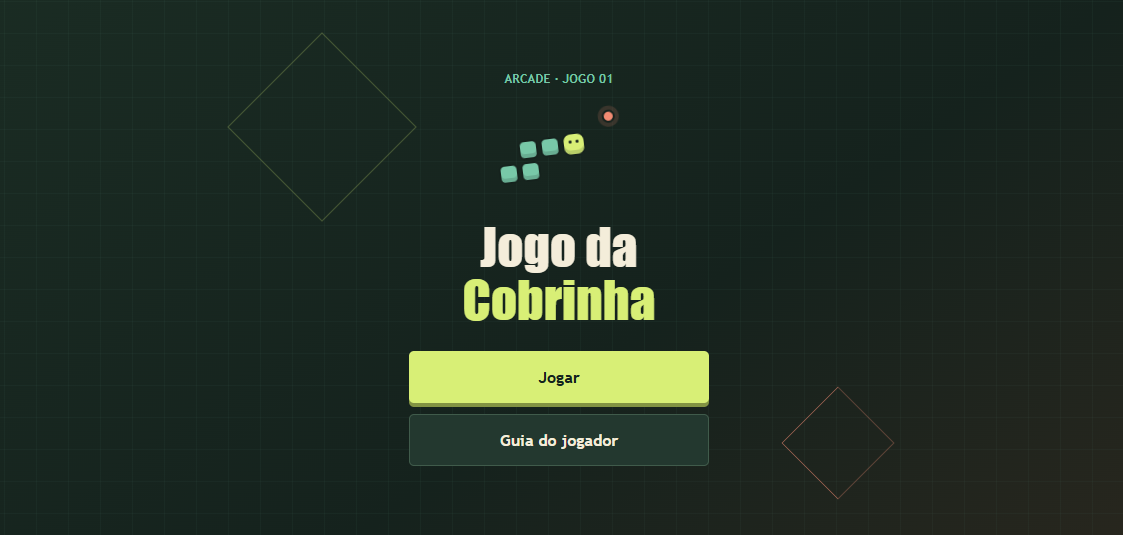
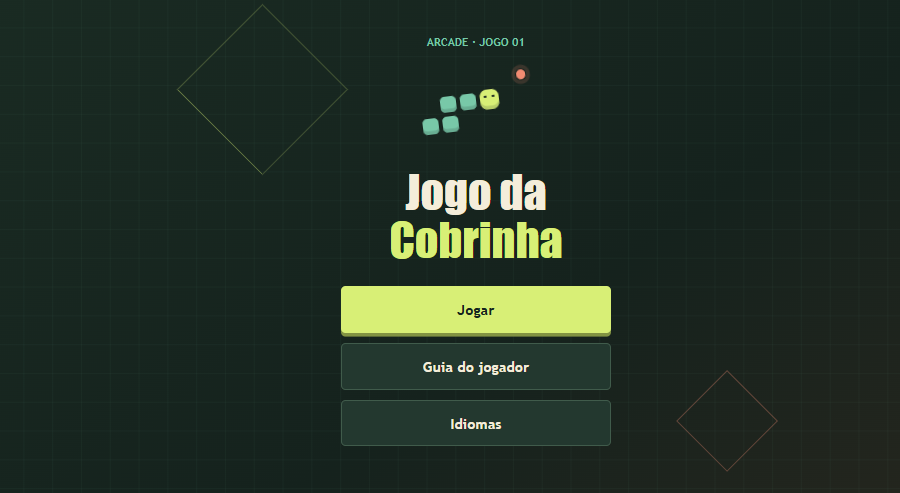
Add bilingual documentation and screenshots

diff --git a/js/game.js b/js/game.js
@@ -18,6 +18,13 @@ const languageButton = document.getElementById("language-button");
 const languageBackButton = document.getElementById("language-back-button");
 const backButton = document.getElementById("back-button");
 const gameBackButton = document.getElementById("game-back-button");
+const screens = {
+    menu: menuScreen,
+    language: languageScreen,
+    guide: howToScreen,
+    game: gameScreen
+};
+let currentScreen = "menu";
 const tileCount = canvas.width / GAME_CONFIG.gridSize;
 const level = createLevelSystem(tileCount);
 const render = createRenderer(canvas, GAME_CONFIG);
@@ -39,6 +46,45 @@ const state = {
 };
 
 highScoreElement.textContent = state.highScore;
+
+function showScreen(screenName) {
+    const nextScreen = screens[screenName];
+    if (!nextScreen) {
+        throw new RangeError(`Unknown screen: ${screenName}`);
+    }
+
+    if (currentScreen === "game" && screenName !== "game") {
+        clearInterval(state.gameInterval);
+        state.gameInterval = null;
+        state.gameStarted = false;
+        state.isMoving = false;
+        state.isPaused = false;
+        state.pauseStartedAt = null;
+    }
+
+    Object.entries(screens).forEach(([name, screen]) => {
+        screen.hidden = name !== screenName;
+    });
+    currentScreen = screenName;
+
+    if (screenName === "game" && !state.gameStarted) {
+        startGame();
+    }
+}
+
+function navigateTo(screenName) {
+    if (screenName === currentScreen) return;
+
+    history.pushState({ ...history.state, snakeScreen: screenName }, "");
+    showScreen(screenName);
+}
+
+window.addEventListener("popstate", event => {
+    const screenName = Object.hasOwn(screens, event.state?.snakeScreen)
+        ? event.state.snakeScreen
+        : "menu";
+    showScreen(screenName);
+});
 
 // ===== Inicio, velocidade e loop principal =====
 function createInitialSnakePart() {
@@ -240,28 +286,19 @@ window.addEventListener("keydown", event => {
 
 // ===== Navegacao entre menu, instrucoes e partida =====
 playButton.addEventListener("click", () => {
-    menuScreen.hidden = true;
-    languageScreen.hidden = true;
-    howToScreen.hidden = true;
-    gameScreen.hidden = false;
-    startGame();
+    navigateTo("game");
 });
 
 howToButton.addEventListener("click", () => {
-    menuScreen.hidden = true;
-    languageScreen.hidden = true;
-    howToScreen.hidden = false;
+    navigateTo("guide");
 });
 
 languageButton.addEventListener("click", () => {
-    menuScreen.hidden = true;
-    languageScreen.hidden = false;
+    navigateTo("language");
 });
 
 languageBackButton.addEventListener("click", () => {
-    languageScreen.hidden = true;
-    menuScreen.hidden = false;
-    languageButton.focus();
+    history.back();
 });
 
 document.querySelectorAll("[data-language]").forEach(button => {
@@ -272,23 +309,15 @@ document.querySelectorAll("[data-language]").forEach(button => {
 });
 
 backButton.addEventListener("click", () => {
-    howToScreen.hidden = true;
-    menuScreen.hidden = false;
-    playButton.focus();
+    history.back();
 });
 
 gameBackButton.addEventListener("click", () => {
-    clearInterval(state.gameInterval);
-    state.gameStarted = false;
-    state.isMoving = false;
-    state.isPaused = false;
-    state.pauseStartedAt = null;
-    gameScreen.hidden = true;
-    menuScreen.hidden = false;
-    playButton.focus();
+    history.back();
 });
 
 // ===== Preparacao da tela inicial =====
 level.reset(state.snake, state.nextDx, state.nextDy);
-gameScreen.hidden = true;
+history.replaceState({ ...history.state, snakeScreen: "menu" }, "");
+showScreen("menu");
 draw();

diff --git a/index.html b/index.html
@@ -44,11 +44,25 @@
             <h1 id="language-title" data-i18n="chooseLanguage">Escolha seu idioma</h1>
             <div class="language-options">
                 <button class="language-option" type="button" data-language="pt-BR" data-i18n-aria-label="portugueseAria">
-                    <span class="language-flag" aria-hidden="true">🇧🇷</span>
+                    <svg class="language-flag" viewBox="0 0 40 28" aria-hidden="true" focusable="false">
+                        <rect width="40" height="28" fill="#009b3a" />
+                        <path d="M20 3 36 14 20 25 4 14Z" fill="#ffdf00" />
+                        <circle cx="20" cy="14" r="6.5" fill="#002776" />
+                    </svg>
                     <span data-i18n="portugueseBrazil">Português - BR</span>
                 </button>
                 <button class="language-option" type="button" data-language="en-US" data-i18n-aria-label="englishAria">
-                    <span class="language-flag" aria-hidden="true">🇺🇸</span>
+                    <svg class="language-flag" viewBox="0 0 40 28" aria-hidden="true" focusable="false">
+                        <rect width="40" height="28" fill="#b22234" />
+                        <path d="M0 2h40v2H0zm0 4h40v2H0zm0 4h40v2H0zm0 4h40v2H0zm0 4h40v2H0zm0 4h40v2H0zm0 4h40v2H0z" fill="#fff" />
+                        <path d="M0 0h18v15H0z" fill="#3c3b6e" />
+                        <g fill="#fff">
+                            <circle cx="3" cy="3" r=".7" /><circle cx="8" cy="3" r=".7" /><circle cx="13" cy="3" r=".7" />
+                            <circle cx="5.5" cy="6" r=".7" /><circle cx="10.5" cy="6" r=".7" /><circle cx="15.5" cy="6" r=".7" />
+                            <circle cx="3" cy="9" r=".7" /><circle cx="8" cy="9" r=".7" /><circle cx="13" cy="9" r=".7" />
+                            <circle cx="5.5" cy="12" r=".7" /><circle cx="10.5" cy="12" r=".7" /><circle cx="15.5" cy="12" r=".7" />
+                        </g>
+                    </svg>
                     <span data-i18n="englishUs">English - US</span>
                 </button>
             </div>

diff --git a/css/menu.css b/css/menu.css
@@ -159,8 +159,11 @@
 }
 
 .language-flag {
-    font-size: 1.5rem;
-    line-height: 1;
+    width: 32px;
+    height: 22px;
+    flex: 0 0 auto;
+    border-radius: 2px;
+    box-shadow: 0 1px 3px rgba(0, 0, 0, 0.35);
 }
 
 /* ===== Botoes ===== */

diff --git a/README.md b/README.md
@@ -1,70 +1,66 @@
-# Jogo da Cobrinha
+# Snake Game
 
-Jogo de cobrinha para navegador, feito com HTML, CSS e JavaScript nativo. Inclui menu, instruções, pontuação, recorde local e fases com itens e obstáculos.
+A browser-based snake game built with vanilla HTML, CSS, and JavaScript. It features a menu, player guide, score tracking, a local high score, and levels with items and obstacles.
 
-O menu permite escolher entre Português (Brasil) e English (United States). A escolha é salva no navegador e traduz o menu, o guia e as mensagens do jogo.
+Choose between Portuguese (Brazil) and English (United States) from the menu. Your choice is saved in the browser and translates the menu, guide, and in-game messages.
 
-## Executar
+## Run the game
 
-Não é necessário instalar dependências nem usar Python. Como o jogo usa módulos JavaScript, execute-o por um servidor local, não diretamente como arquivo:
+No dependencies or Python are required. Since the game uses JavaScript modules, run it from a local web server rather than opening the file directly:
 
-1. Abra a pasta do projeto no VS Code.
-2. Instale a extensão **Live Server**.
-3. Abra o `index.html` e clique em **Go Live** na barra inferior, ou clique com o botão direito no arquivo e selecione **Open with Live Server**.
-4. O jogo será aberto no navegador.
+1. Open the project folder in VS Code.
+2. Install the **Live Server** extension.
+3. Open `index.html` and click **Go Live** in the status bar, or right-click the file and select **Open with Live Server**.
+4. The game will open in your browser.
 
-## Demonstração
+## Screenshots
 
-### Início
+### Main menu
 
-![Menu inicial do jogo](screenshots/menu-inicial.png)
+![Snake game main menu in English](screenshots/menu-inicial-english.png)
 
-### Instruções
+### Language selection
 
-![Controles do guia do jogador](screenshots/guia-do-jogador.png)
+![Language selection screen](screenshots/troca-de-idioma-english.png)
 
-![Fases e novidades do jogo](screenshots/fases-do-jogo.png)
+### Player guide
 
-### Jogo rodando
+![Player guide controls in English](screenshots/guia-ingles-controles.png)
 
-![Partida em andamento com portais e frutas](screenshots/partida-em-andamento.png)
+![Player guide phases and features in English](screenshots/guia-ingles-fases.png)
 
-### Fim de jogo
+### Gameplay
 
-![Tela de fim de jogo](screenshots/fim-de-jogo.png)
+![Snake game in progress](screenshots/partida-english.png)
 
-<!-- Opcional: adicione um vídeo e substitua o caminho abaixo.
-[Assistir ao vídeo da demonstração](screenshots/video.mp4)
--->
+## How to play
 
-## Como jogar
+- Select **Play** from the menu and use the arrow keys to move the snake.
+- Select **Languages** from the menu to switch between Portuguese - BR and English - US.
+- Use **← Back** to leave a game and return to the menu; in the guide, use **← Menu** to return.
+- Press **Space** to pause; choose a direction to continue.
+- Each fruit is worth 10 points and makes the snake grow. Up to three fruits appear on the board, each for 10 seconds.
+- The edges wrap around to the opposite sides of the board.
+- You lose if you collide with your own body, a bomb, or a moving wall.
+- Filling every cell on the board wins the game.
 
-- Selecione **Jogar** no menu e use as setas para mover a cobra.
-- Selecione **Idiomas** no menu para trocar entre Português - BR e English - US.
-- Use **← Voltar** para sair da partida e voltar ao menu; no guia, use **← Menu** para retornar.
-- Pressione **Espaço** para pausar; escolha uma direção para continuar.
-- Cada fruta vale 10 pontos e faz a cobra crescer. Há até três frutas no tabuleiro, cada uma por 10 segundos.
-- As bordas conectam os lados opostos do tabuleiro.
-- Você perde ao colidir com o próprio corpo, uma bomba ou uma parede móvel.
-- Preencher todas as casas do tabuleiro resulta em vitória.
+## Phases
 
-## Fases
-
-| Pontuação | Novidade |
+| Score | Feature |
 | --- | --- |
-| 0–99 | Três frutas disponíveis; cada uma desaparece após 10 segundos. |
-| 100–199 | Bombas aparecem por até 8 segundos. Após sumirem, podem surgir novamente. |
-| 200–299 | Dois portais transportam a cobra. Duram 15 segundos e reaparecem em outras posições após uma pausa. |
-| 300–399 | Poção roxa que reduz o comprimento da cobra em até cinco segmentos. |
-| 400–499 | Quatro paredes móveis no centro do tabuleiro; mudam de posição a cada 15 segundos. |
-| 500+ | Sobrevivência: a velocidade aumenta a cada 50 pontos, e as novidades anteriores continuam ativas. |
+| 0–99 | Three fruits are available; each disappears after 10 seconds. |
+| 100–199 | Bombs appear for up to 8 seconds and may spawn again after disappearing. |
+| 200–299 | Two portals transport the snake. They last 15 seconds and reappear in new positions after a short break. |
+| 300–399 | A purple potion shrinks the snake by up to five segments. |
+| 400–499 | Four moving walls appear in the center of the board and move every 15 seconds. |
+| 500+ | Survival: the snake speeds up every 50 points, and features from previous phases remain active. |
 
-## Estrutura
+## Project structure
 
 ```text
 .
 ├── index.html
-├── script.js              # Entrada dos módulos
+├── script.js              # JavaScript module entry point
 ├── css/
 │   ├── base.css
 │   ├── game.css
@@ -72,8 +68,10 @@ Não é necessário instalar dependências nem usar Python. Como o jogo usa mód
 │   ├── menu.css
 │   └── motion.css
 └── js/
-    ├── config.js          # Configurações do jogo
-    ├── game.js            # Partida e controles
-    ├── level-system.js    # Fases, itens e obstáculos
-    └── renderer.js        # Desenho no canvas
+    ├── config.js          # Game configuration
+    ├── game.js            # Gameplay and controls
+    ├── level-system.js    # Phases, items, and obstacles
+    └── renderer.js        # Canvas rendering
 ```
+
+Português: [README.pt-BR.md](README.pt-BR.md)

diff --git a/README.pt-BR.md b/README.pt-BR.md
@@ -1,0 +1,79 @@
+# Jogo da Cobrinha
+
+Jogo de cobrinha para navegador, feito com HTML, CSS e JavaScript nativo. Inclui menu, guia do jogador, pontuação, recorde local e fases com itens e obstáculos.
+
+Escolha entre Português (Brasil) e English (United States) no menu. A preferência fica salva no navegador e traduz o menu, o guia e as mensagens da partida.
+
+## Executar
+
+Não é necessário instalar dependências nem usar Python. Como o jogo usa módulos JavaScript, execute-o por um servidor local, não diretamente como arquivo:
+
+1. Abra a pasta do projeto no VS Code.
+2. Instale a extensão **Live Server**.
+3. Abra o `index.html` e clique em **Go Live** na barra inferior, ou clique com o botão direito no arquivo e selecione **Open with Live Server**.
+4. O jogo será aberto no navegador.
+
+## Capturas de tela
+
+### Tela inicial
+
+![Menu inicial do jogo](screenshots/menu-inicial.png)
+
+### Troca de idioma
+
+![Tela de seleção de idioma com as bandeiras do Brasil e dos Estados Unidos](screenshots/troca-de-idioma.png)
+
+### Guia do jogador
+
+![Controles do guia do jogador em português](screenshots/guia-do-jogador.png)
+
+![Fases e novidades do jogo em português](screenshots/fases-do-jogo.png)
+
+### Partida
+
+![Partida em andamento com portais e frutas](screenshots/partida-em-andamento.png)
+
+![Fim de jogo](screenshots/fim-de-jogo.png)
+
+## Como jogar
+
+- Selecione **Jogar** no menu e use as setas para mover a cobra.
+- Selecione **Idiomas** no menu para trocar entre Português - BR e English - US.
+- Use **← Voltar** para sair da partida e voltar ao menu; no guia, use **← Menu** para retornar.
+- Pressione **Espaço** para pausar; escolha uma direção para continuar.
+- Cada fruta vale 10 pontos e faz a cobra crescer. Há até três frutas no tabuleiro, cada uma por 10 segundos.
+- As bordas conectam os lados opostos do tabuleiro.
+- Você perde ao colidir com o próprio corpo, uma bomba ou uma parede móvel.
+- Preencher todas as casas do tabuleiro resulta em vitória.
+
+## Fases
+
+| Pontuação | Novidade |
+| --- | --- |
+| 0–99 | Três frutas disponíveis; cada uma desaparece após 10 segundos. |
+| 100–199 | Bombas aparecem por até 8 segundos. Após sumirem, podem surgir novamente. |
+| 200–299 | Dois portais transportam a cobra. Duram 15 segundos e reaparecem em outras posições após uma pausa. |
+| 300–399 | Poção roxa que reduz o comprimento da cobra em até cinco segmentos. |
+| 400–499 | Quatro paredes móveis no centro do tabuleiro; mudam de posição a cada 15 segundos. |
+| 500+ | Sobrevivência: a velocidade aumenta a cada 50 pontos, e as novidades anteriores continuam ativas. |
+
+## Estrutura do projeto
+
+```text
+.
+├── index.html
+├── script.js              # Entrada dos módulos JavaScript
+├── css/
+│   ├── base.css
+│   ├── game.css
+│   ├── instructions.css
+│   ├── menu.css
+│   └── motion.css
+└── js/
+    ├── config.js          # Configurações do jogo
+    ├── game.js            # Partida e controles
+    ├── level-system.js    # Fases, itens e obstáculos
+    └── renderer.js        # Desenho no canvas
+```
+
+English: [README.md](README.md)
